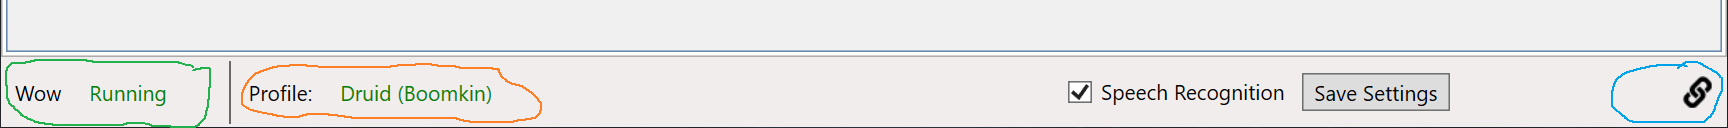
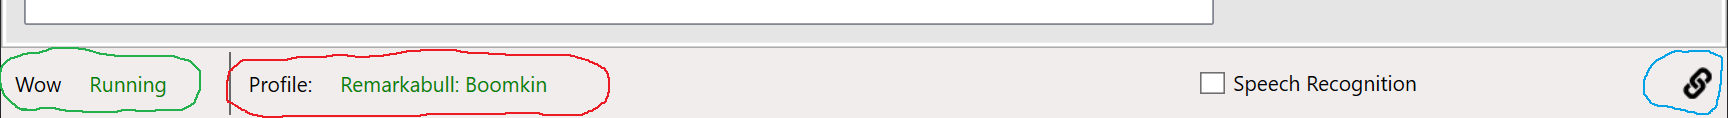
Updated the readme with fresh screen shots

diff --git a/README.md b/README.md
@@ -1,4 +1,4 @@
-# Voice Command Interface ![GitHub release (latest by date)](https://img.shields.io/github/v/release/zxeltor/voice_command_interface)
+# Voice Command Interface v4.2.0
 
 ![VCILogo](OrcYell.png?v17-10-2021) 
 
@@ -83,7 +83,7 @@ With this enabled, the software will check for the latest version of Voice Comma
 ## Use with World of Warcraft
 I started by adding spells and abilities to my actions bars, then setting keybinds to those spells and abilities. I used SHIFT+F1, CTRL+F1, and etc. I then created a voice recognition profile for WOW, and added voice commands to send keystrokes like SHIFT+F1, CTRL+F1, and etc to WOW.
 
-![ProfileTab](ScreenShots/ProfilesTab.png?v17-10-2021)
+![ProfileTab](ScreenShots/ProfilesTab_WOW.png?v17-10-2021)
 As an example from the above profile tab. When I say "engage bull rush", the SHIFT+F1 key combination is sent to WOW, and WOW responds by clicking the actionbar button I keybinded with SHIFT-F1.
 ## Disclaimer
 This software and any related documentation is provided “as is” without warranty of any kind, either express or implied, including, without limitation, the implied warranties of merchantability, fitness for a particular purpose, or non-infringement. Licensee accepts any and all risk arising out of use or performance of Software.
